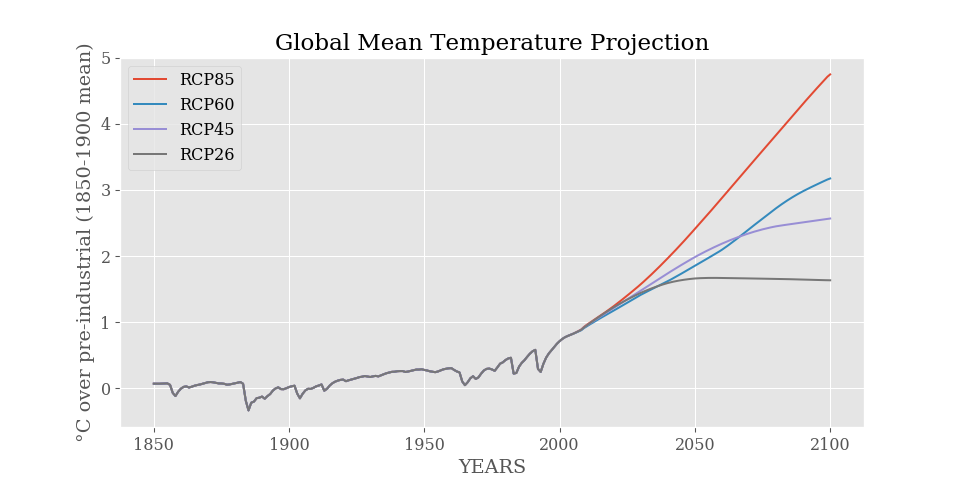
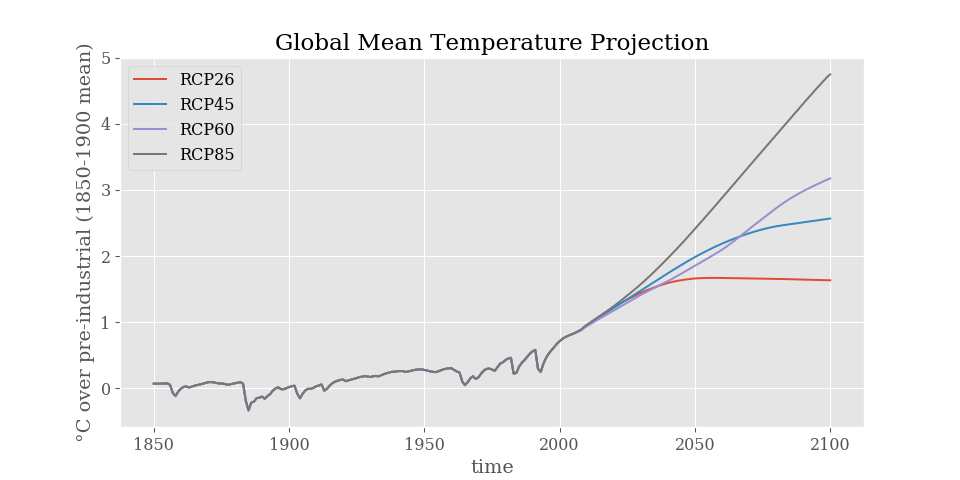
Add documentation

diff --git a/pymagicc/api.py b/pymagicc/api.py
@@ -308,9 +308,11 @@ class MAGICCBase(object):
         ----------
         filename : str
             Name of configuration file to write
+
         top_level_key : str
             Name of namelist to be written in the
             configuration file
+
         kwargs
             Other parameters to pass to the configuration file. No
             validation on the parameters is performed.
@@ -338,12 +340,15 @@ class MAGICCBase(object):
         ----------
         filename : str
             Name of configuration file to write
+
         top_level_key : str
             Name of namelist to be written in the
             configuration file
+
         kwargs
             Other parameters to pass to the configuration file. No
             validation on the parameters is performed.
+
         Returns
         -------
         dict
@@ -368,6 +373,7 @@ class MAGICCBase(object):
         ----------
         startyear : int
             Start year of the simulation
+
         endyear : int
             End year of the simulation
 
@@ -388,19 +394,21 @@ class MAGICCBase(object):
     def set_output_variables(self, write_ascii=True, write_binary=False, **kwargs):
         """Writes the output configuration
 
-        There are a number of configuration parameters which control which variables are written to
-        file and in which format. Limiting the variables that are written to file can greatly speed
-        up the running of MAGICC. By default, calling this function without specifying any variables
-        will disable all output.
+        There are a number of configuration parameters which control which variables
+        are written to file and in which format. Limiting the variables that are
+        written to file can greatly speed up the running of MAGICC. By default,
+        calling this function without specifying any variables will disable all output.
 
         Parameters
         ----------
         write_ascii : bool
             If true, MAGICC is configured to write output files as human readable ascii files.
+
         write_binary : bool
             If true, MAGICC is configured to write binary output files. These files are much faster
             to process and write, but are not human readable.
-        kwargs:
+
+        **kwargs:
             List of variables to write out. A list of possible options are as follows. This
             may not be a complete list.
 

diff --git a/scripts/plot_example.py b/scripts/plot_example.py
@@ -1,8 +1,10 @@
 import os
 import matplotlib.pyplot as plt
-import pymagicc
 
+
+import pymagicc
 from pymagicc import scenarios
+
 
 plt.style.use("ggplot")
 plt.rcParams["figure.figsize"] = 10, 5
@@ -10,18 +12,30 @@ plt.rcParams["font.family"] = "serif"
 plt.rcParams["font.size"] = 12
 
 
-path = os.path.join(os.path.dirname(__file__),
-                    './example-plot.png')
+output_path = os.path.join(
+    os.path.dirname(__file__),
+    './example-plot.png'
+)
 
-for name, scen in sorted(scenarios.items(), reverse=True):
-    results, params = pymagicc.run(scen, return_config=True)
-    temp = (results["SURFACE_TEMP"].GLOBAL.loc[1850:] -
-            results["SURFACE_TEMP"].GLOBAL.loc[1850:1900].mean())
+for name, scen in scenarios.items():
+    results = pymagicc.run(scen)
+    results_df = results.df
+    results_df.set_index("time", inplace=True)
+
+    global_temp_time_rows = (
+        (results_df.variable == "Surface Temperature")
+        & (results_df.region == "World")
+    )
+
+    temp = (
+        results_df.value[global_temp_time_rows].loc[1850:]
+        - results_df.value[global_temp_time_rows].loc[1850:1900].mean()
+    )
     temp.plot(label=name)
 
 plt.legend()
 plt.title("Global Mean Temperature Projection")
-plt.ylabel(u"°C over pre-industrial (1850-1900 mean)")
+plt.ylabel("°C over pre-industrial (1850-1900 mean)");
 plt.legend(loc="best")
 
-plt.savefig(path, dpi=96)
+plt.savefig(output_path, dpi=96)

diff --git a/pymagicc/__init__.py b/pymagicc/__init__.py
@@ -70,7 +70,7 @@ rcp85 = read_scen_file(os.path.join(_magiccpath, "RCP85.SCEN"))
 scenarios = {"RCP26": rcp26, "RCP45": rcp45, "RCP60": rcp60, "RCP85": rcp85}
 
 
-def run(scenario, magicc_version=6, **kwargs):
+def run(scenario, magicc_version=6, out_parameters=True, **kwargs):
     """
     Run a MAGICC scenario and return output data and (optionally) config parameters.
 
@@ -82,10 +82,11 @@ def run(scenario, magicc_version=6, **kwargs):
     magicc_version : int
         MAGICC version to use for the run
 
-    return_config : bool
-        If True, return the full list of parameters used
+    out_parameters : bool
+        If True, include the full list of parameters used in the output object's
+        ``metadata`` attribute
 
-    kwargs
+    **kwargs
         Parameters overwriting default parameters
 
     Raises

diff --git a/README.rst b/README.rst
@@ -36,20 +36,34 @@ Basic Usage
 
 .. code:: python
 
-    import pymagicc
-    from pymagicc import scenarios
     import matplotlib.pyplot as plt
 
+    import pymagicc
+    from pymagicc import scenarios
+
     for name, scen in scenarios.items():
-        results, params = pymagicc.run(scen, return_config=True)
-        temp = (results["SURFACE_TEMP"].GLOBAL.loc[1850:] -
-                results["SURFACE_TEMP"].GLOBAL.loc[1850:1900].mean())
+        results = pymagicc.run(scen)
+        results_df = results.df
+        results_df.set_index("time", inplace=True)
+
+        global_temp_time_rows = (
+            (results_df.variable == "Surface Temperature")
+            & (results_df.region == "World")
+        )
+
+        temp = (
+            results_df.value[global_temp_time_rows].loc[1850:]
+            - results_df.value[global_temp_time_rows].loc[1850:1900].mean()
+        )
         temp.plot(label=name)
+
     plt.legend()
     plt.title("Global Mean Temperature Projection")
-    plt.ylabel(u"°C over pre-industrial (1850-1900 mean)")
+    plt.ylabel("°C over pre-industrial (1850-1900 mean)");
+    plt.legend(loc="best")
     # Run `plt.show()` to display the plot when running this example
     # interactively or add `%matplotlib inline` on top when in a Jupyter Notebook.
+
 
 .. sec-begin-example-plot
 
@@ -189,7 +203,7 @@ Use an included scenario
 
     from pymagicc import rcp26
 
-    rcp26["WORLD"].head()
+    rcp26.df.head()
 
 Read a MAGICC scenario file
 ***************************
@@ -200,33 +214,24 @@ Read a MAGICC scenario file
 
     scenario = read_scen_file("PATHWAY.SCEN")
 
-Create a new scenario
-*********************
-
-Pymagicc uses Pandas DataFrames to represent scenarios. Dictionaries are
-used for scenarios with multiple regions.
-
-.. code:: python
-
-    import pandas as pd
-
-    scenario = pd.DataFrame({
-        "FossilCO2": [8, 10, 9],
-        "OtherCO2": [1.2, 1.1, 1.2],
-        "CH4": [300, 250, 200]},
-        index=[2010, 2020, 2030]
-    )
-
 Run MAGICC for a scenario
 *************************
 
 .. code:: python
 
-    output = pymagicc.run(scenario)
+    results = pymagicc.run(scenario)
+    results_df = results.df
+    results_df.set_index("time", inplace=True)
 
-    # Projected temperature adjusted to pre-industrial mean
-    temp = (output["SURFACE_TEMP"].GLOBAL -
-            output["SURFACE_TEMP"].loc[1850:2100].GLOBAL.mean())
+    global_temp_time_rows = (
+        (results_df.variable == "Surface Temperature")
+        & (results_df.region == "World")
+    )
+
+    temp = (
+        results_df.value[global_temp_time_rows].loc[1850:]
+        - results_df.value[global_temp_time_rows].loc[1850:1900].mean()
+    )
 
 Using a different MAGICC version
 ********************************
